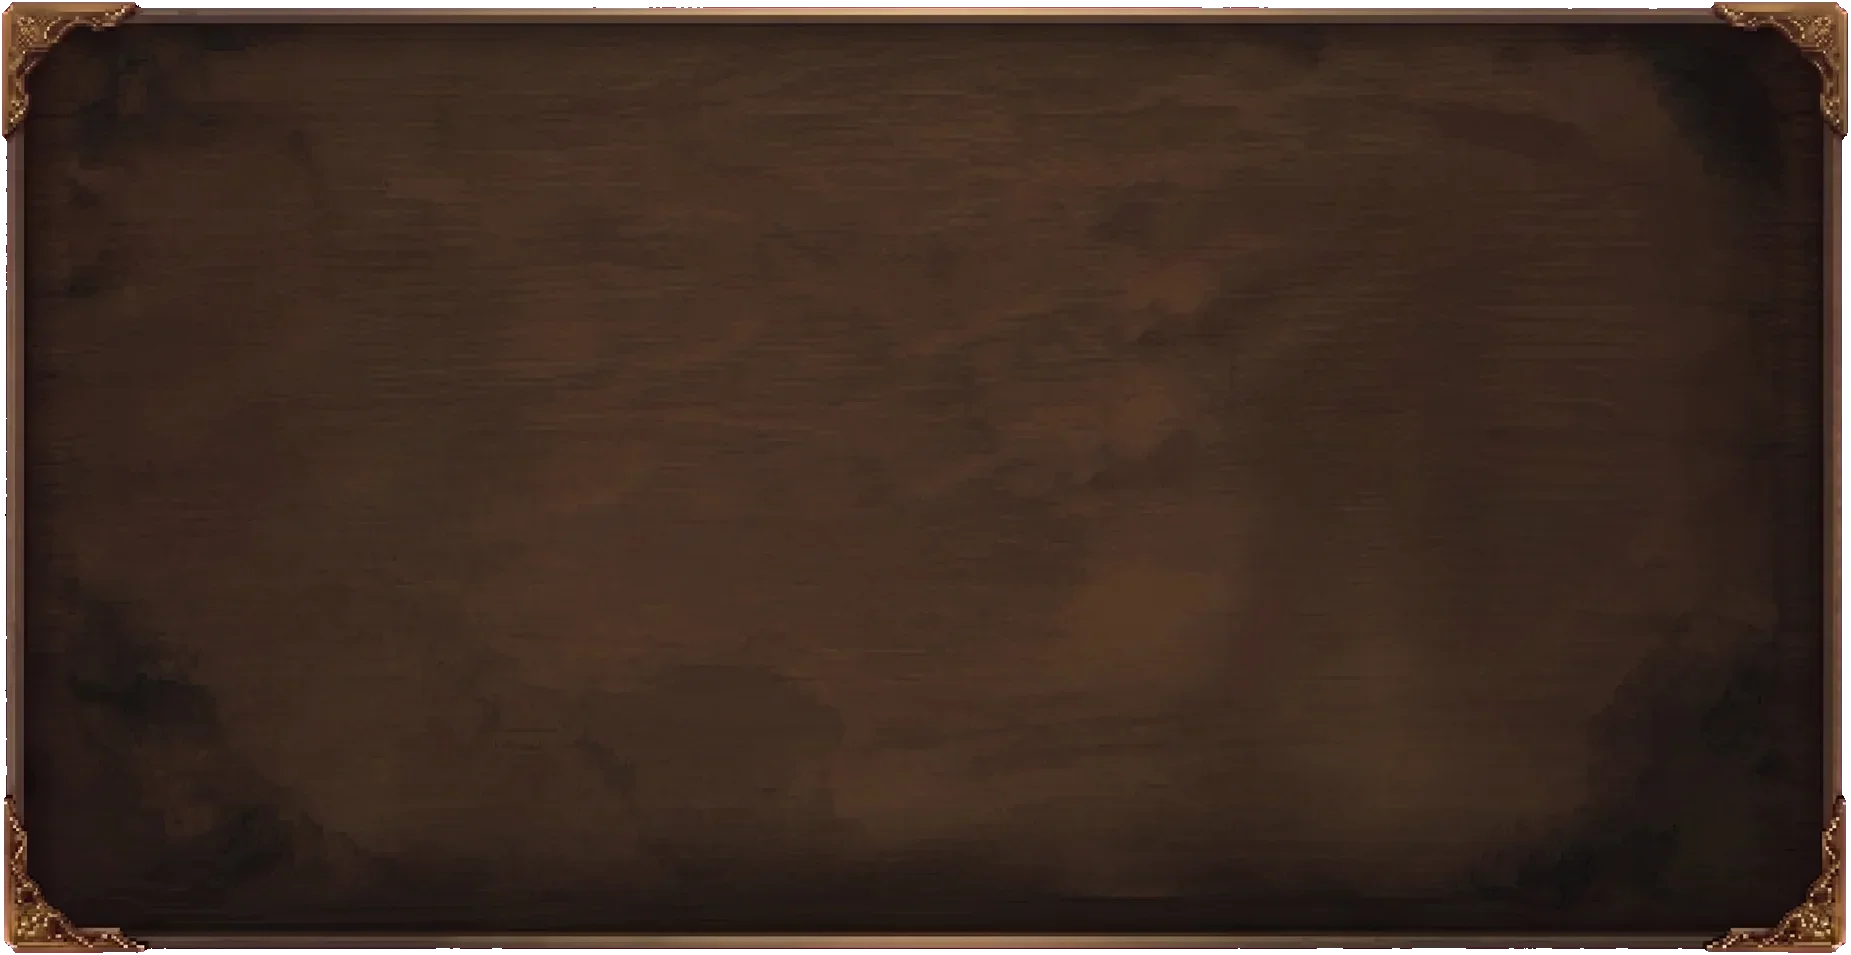
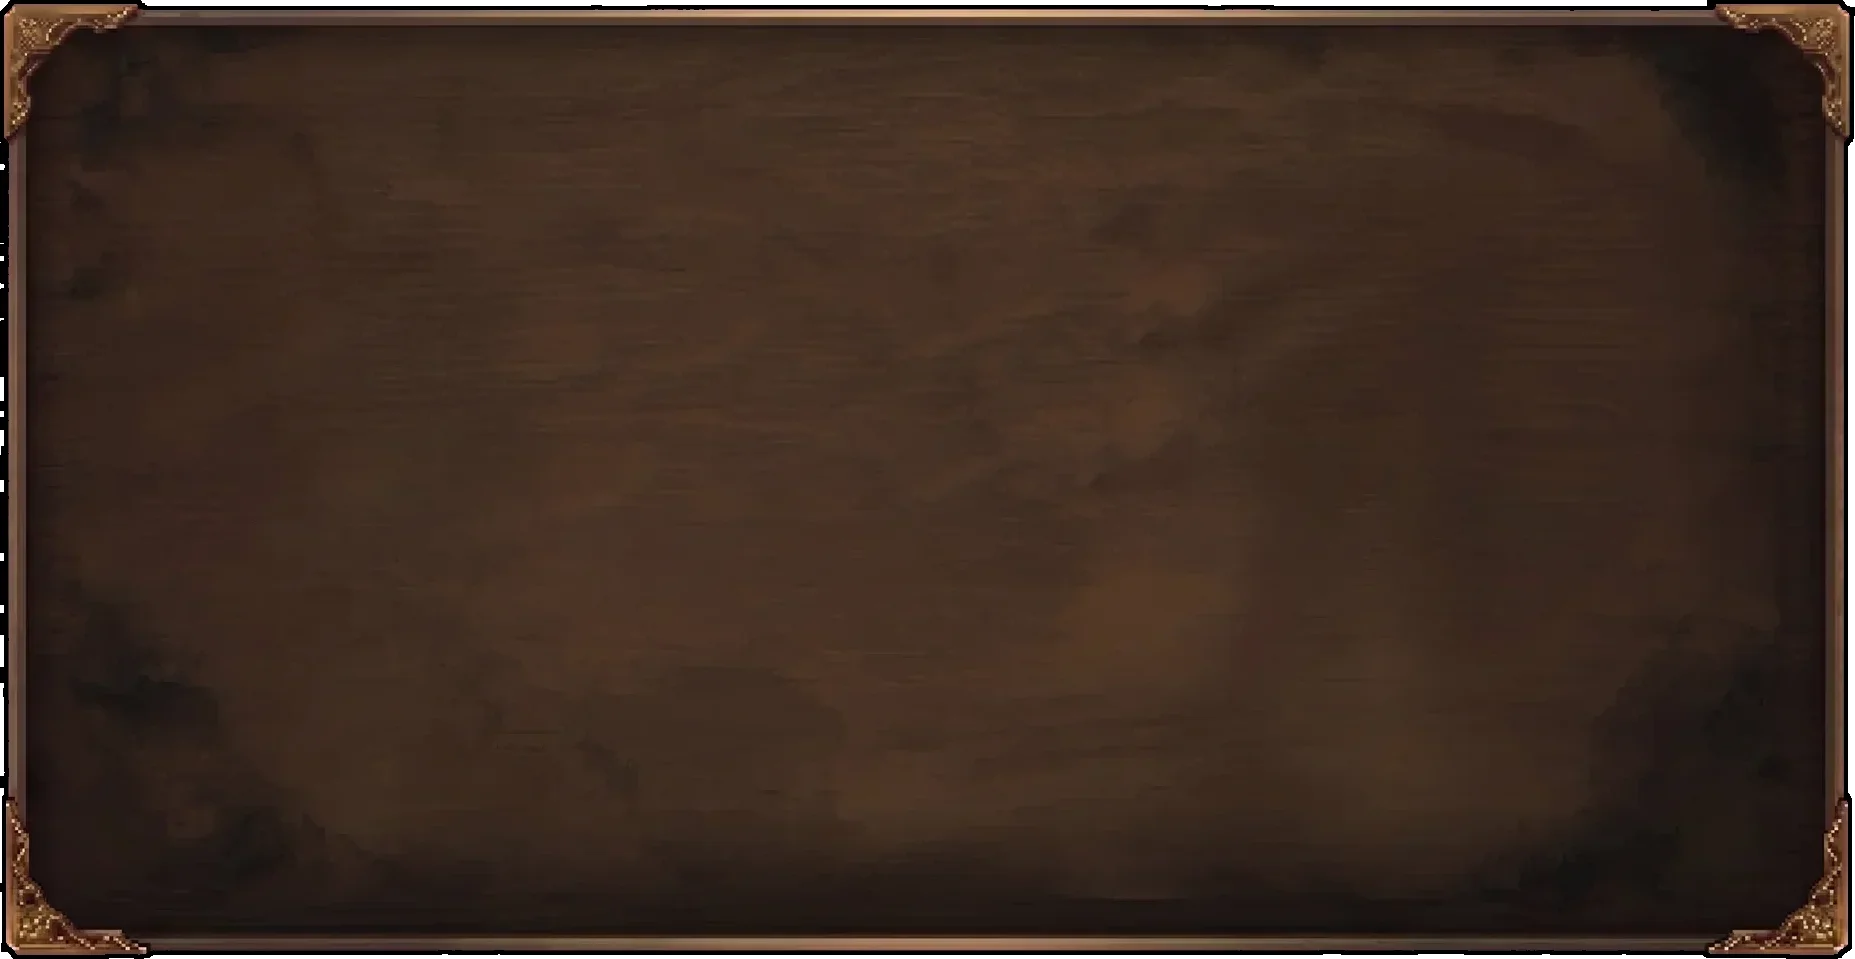
Friends panel: magenta tint removed, 2px black border
Claude-Session: https://claude.ai/code/session_01W4v7cyzS6Fr8aMVaGgywWE

Changed region(s): [[0.0, 0.0, 1.0, 1.0]]

diff --git a/index.html b/index.html
@@ -1160,7 +1160,7 @@
             <div id="friend-stage" class="town-stage" data-w="1920" data-h="1080">
                 <div class="ts-inner" style="width:1920px; height:1080px;">
                     <img class="ts-bg" src="assets/pages/friend/bg_v2_q85.webp" alt="" style="width:1920px; height:1080px;" onerror="townSwap(this,'friendpage.png')">
-                    <img src="assets/pages/friend/window_panel_q85.webp" alt="" style="position:absolute; left:35px; top:62px; width:1851px; height:955px; pointer-events:none;">
+                    <img src="assets/pages/friend/window_panel_q85.webp" alt="" style="position:absolute; left:33px; top:60px; width:1855px; height:959px; pointer-events:none;">
                     <div class="char-header-bar" style="left:0px; top:0px; width:1920px; height:70px;"></div>
                     <div class="ui char-return" style="left:1846px; top:2px; width:66px; height:67px;" onclick="switchView('town')">
                         <img class="ret-normal" src="assets/cha/button/returnbuttonsmall_q85.webp" alt="">
